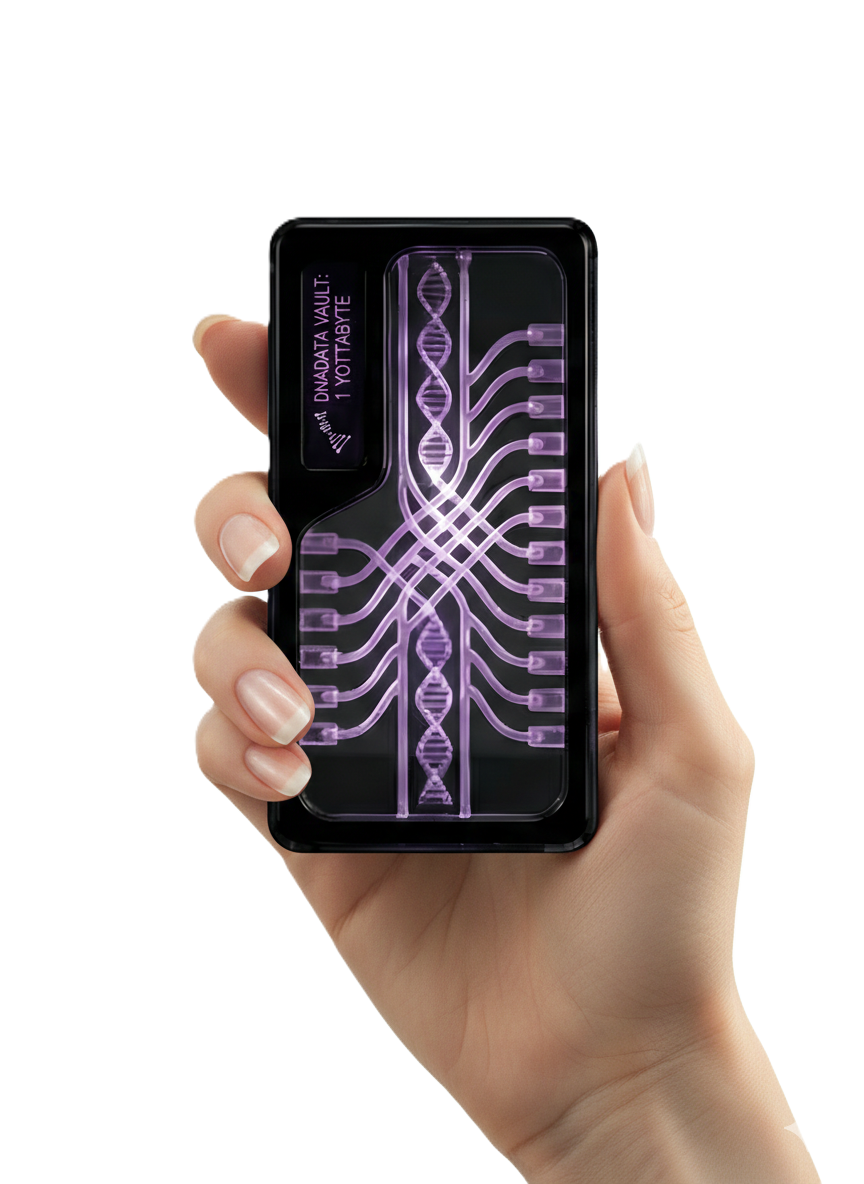
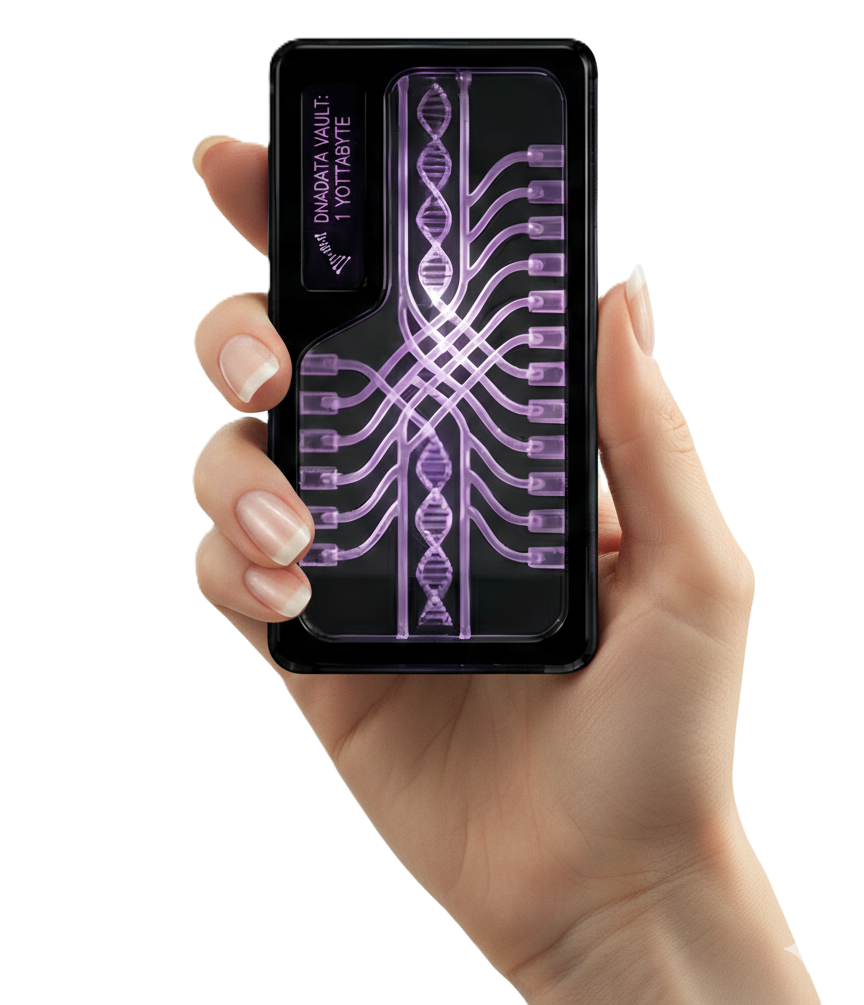
Final Feedback Fixes

diff --git a/app/careers/[id]/ApplyModal.tsx b/app/careers/[id]/ApplyModal.tsx
@@ -179,7 +179,7 @@ export default function ApplyModal({ jobId, jobTitle }: ApplyModalProps) {
                             {/* Cover Letter */}
                             <div>
                                 <label htmlFor="coverLetter" className="block text-sm font-semibold text-dark mb-2">
-                                    Cover Letter
+                                    Additional Document Links
                                 </label>
                                 <textarea
                                     id="coverLetter"
@@ -188,7 +188,7 @@ export default function ApplyModal({ jobId, jobTitle }: ApplyModalProps) {
                                     value={formData.coverLetter}
                                     onChange={handleInputChange}
                                     className="w-full px-4 py-3 border border-gray-300 rounded focus:outline-none focus:border-purple transition-colors resize-none"
-                                    placeholder="Tell us why you're a great fit for this role..."
+                                    placeholder="Add links for documents like research papers, cover letters, portfolio, etc. (one per line)"
                                 />
                             </div>
 

diff --git a/app/product/page.tsx b/app/product/page.tsx
@@ -191,7 +191,7 @@ function FitsInStackSection(): JSX.Element {
                 <img
                     src="/Devicehandheld.png"
                     alt="Device Handheld"
-                    className="w-56 sm:w-72 md:w-[22rem] lg:w-[28rem] xl:w-[36rem] h-auto mx-auto mt-4 sm:mt-6 md:mt-8"
+                    className="w-56 sm:w-72 md:w-[22rem] lg:w-[28rem] xl:w-[36rem] h-auto mx-auto mt-2 sm:mt-4 md:mt-6"
                 />
             </div>
 
@@ -711,6 +711,13 @@ function HowItWorksSection() {
 }
 
 export default function ProductPage() {
+
+    useEffect(() => {
+        fetch('https://biocompute-cms.onrender.com/api/health')
+            .then(() => console.log("Server is healthy"))
+            .catch(() => console.log("Server is down"));
+    }, [])
+
     return (
         <>
             <DNABackground />

diff --git a/app/page.tsx b/app/page.tsx
@@ -257,7 +257,7 @@ export default function Home() {
               variants={dnaVariants}
               initial="section0"
               animate={currentSection === 0 ? "section0" : currentSection === 1 ? "section1" : "hidden"}
-              className="text-3xl xs:text-4xl sm:text-5xl md:text-6xl lg:text-7xl xl:text-8xl font-bold relative z-10 px-2 sm:px-4"
+              className="text-3xl xs:text-4xl sm:text-5xl md:text-6xl lg:text-7xl xl:text-8xl font-bold backdrop-blur-lg relative z-10 px-2 sm:px-4"
               style={{
                 background: 'linear-gradient(to bottom right, #a580c0, #9b6fb5, #8a5fa5)',
                 WebkitBackgroundClip: 'text',

diff --git a/app/faq/page.tsx b/app/faq/page.tsx
@@ -1,6 +1,6 @@
 'use client';
 
-import { useState } from 'react';
+import { useEffect, useState } from 'react';
 import { ChevronDown } from 'lucide-react';
 import Link from 'next/link';
 
@@ -55,6 +55,12 @@ export default function FAQ() {
   const toggleItem = (id: number) => {
     setExpandedId(expandedId === id ? null : id);
   };
+
+  useEffect(() => {
+    fetch('https://biocompute-cms.onrender.com/api/health')
+      .then(() => console.log("Server is healthy"))
+      .catch(() => console.log("Server is down"));
+  }, [])
 
   return (
     <div className="bg-white text-dark">

diff --git a/app/blogs/page.tsx b/app/blogs/page.tsx
@@ -12,6 +12,12 @@ export default function BlogsPage() {
   const [isLoading, setIsLoading] = useState(true);
 
   useEffect(() => {
+    fetch('https://biocompute-cms.onrender.com/api/health')
+      .then(() => console.log("Server is healthy"))
+      .catch(() => console.log("Server is down"));
+  }, [])
+
+  useEffect(() => {
     async function loadBlogs() {
       try {
         const response = await fetch('/api/blogs');

diff --git a/app/about/page.tsx b/app/about/page.tsx
@@ -361,6 +361,12 @@ const TimelineCarouselContainer: React.FC<{ timelineData: TimelineItem[] }> = ({
 };
 
 export default function About() {
+
+    useEffect(() => {
+        fetch('https://biocompute-cms.onrender.com/api/health')
+            .then(() => console.log("Server is healthy"))
+            .catch(() => console.log("Server is down"));
+    }, [])
     // Timeline Data
     const timelineData = [
         {

diff --git a/app/contact/page.tsx b/app/contact/page.tsx
@@ -85,6 +85,12 @@ export default function Contact() {
     }
   };
 
+  useEffect(() => {
+    fetch('https://biocompute-cms.onrender.com/api/health')
+      .then(() => console.log("Server is healthy"))
+      .catch(() => console.log("Server is down"));
+  }, [])
+
   return (
     <div className="pt-0">
       <section className="bg-dark flex mt-48 sm:mt-64 mb-10 pb-48 sm:mb-64 items-start py-4 ">

diff --git a/components/Footer.tsx b/components/Footer.tsx
@@ -15,7 +15,7 @@ export default function Footer() {
             </h3>
             <ul className="space-y-3">
               <li>
-                <Link href="/" className="text-white hover:text-purple transition-colors">
+                <Link href="/about" className="text-white hover:text-purple transition-colors">
                   About Us
                 </Link>
               </li>

diff --git a/app/blogs/loading.tsx b/app/blogs/loading.tsx
@@ -1,4 +1,5 @@
 export default function BlogsLoading() {
+
     return (
         <div className="min-h-screen pt-16">
             <div className="max-w-7xl mx-auto px-4 sm:px-6 lg:px-8 py-16">
